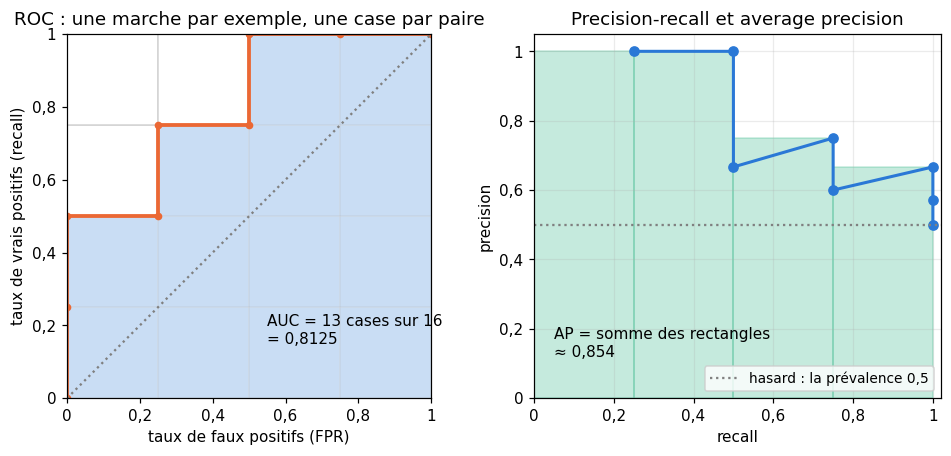
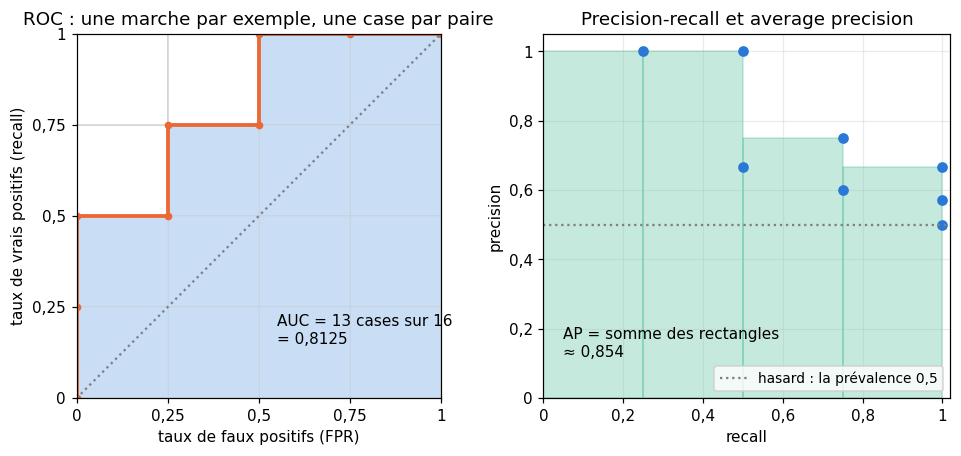
M03: corrections de la relecture à l'aveugle (parité des precisions, cas extrêmes de l'impossibilité, trapèzes PR, énoncés précisés, figures)
Claude-Session: https://claude.ai/code/session_01Nzd2BLBqKp1WGBHcAcsxs2

diff --git a/tools/chapters/figures_m03.py b/tools/chapters/figures_m03.py
@@ -92,8 +92,8 @@ def fig_simpson() -> None:
     ax.bar(x - 0.18, team_a, width=0.36, color=C[0], label="équipe A (100 faciles, 100 difficiles)")
     ax.bar(x + 0.18, team_b, width=0.36, color=C[1], label="équipe B (200 faciles, 20 difficiles)")
     for xi, a, b in zip(x, team_a, team_b):
-        ax.text(xi - 0.18, a + 0.02, french(a), ha="center", fontsize=9)
-        ax.text(xi + 0.18, b + 0.02, french(b), ha="center", fontsize=9)
+        for xpos, value in ((xi - 0.18, a), (xi + 0.18, b)):     # exact rates: 0,9 ; 0,85 ; 0,795
+            ax.text(xpos, value + 0.02, f"{value:.3f}".rstrip("0").replace(".", ","), ha="center", fontsize=9)
     ax.set_xticks(x, labels=labels)
     ax.xaxis.keep_labels = True
     ax.set(ylim=(0, 1.05), ylabel="taux de résolution", title="Paradoxe de Simpson : A gagne dans chaque groupe, B au total")
@@ -183,6 +183,8 @@ def fig_roc_pairs() -> None:
     ax1.plot(fpr, tpr, color=C[1], linewidth=2.5, marker="o", markersize=4)
     ax1.plot([0, 1], [0, 1], color="gray", linestyle=":")
     ax1.text(0.55, 0.15, "AUC = 13 cases sur 16\n= 0,8125", fontsize=10)
+    ax1.set_xticks(np.linspace(0, 1, 5))                          # one tick per column (negative) and per row
+    ax1.set_yticks(np.linspace(0, 1, 5))
     ax1.set(xlim=(0, 1), ylim=(0, 1), aspect="equal", xlabel="taux de faux positifs (FPR)",
             ylabel="taux de vrais positifs (recall)", title="ROC : une marche par exemple, une case par paire")
     recall, precision, ap_parts = [], [], []
@@ -197,7 +199,7 @@ def fig_roc_pairs() -> None:
         if r > previous:
             ax2.add_patch(plt.Rectangle((previous, 0), r - previous, p, facecolor=C[2], alpha=0.25, edgecolor=C[2]))
             previous = r
-    ax2.plot(recall, precision, color=C[0], marker="o", linewidth=2)
+    ax2.plot(recall, precision, color=C[0], marker="o", linestyle="none")   # points only: no interpolation
     ax2.axhline(0.5, color="gray", linestyle=":", label="hasard : la prévalence 0,5")
     ax2.text(0.05, 0.12, "AP = somme des rectangles\n≈ 0,854", fontsize=10)
     ax2.set(xlim=(0, 1.02), ylim=(0, 1.05), xlabel="recall", ylabel="precision",

diff --git a/chapitres/m03_probabilites_conditionnelles/01_fiche.md b/chapitres/m03_probabilites_conditionnelles/01_fiche.md
@@ -6,7 +6,7 @@
 |---|---|
 | **Sections** | §1 à §8 |
 | **Temps total estimé** | ≈ 12,8 h : lecture et calculs de la fiche ≈ 2 h 30, exercices ≈ 9 h 30, flashcards ≈ 45 min (parcours essentiel ≈ 7,2 h) |
-| **Prérequis** | R1 (moyenne harmonique, moyenne pondérée) ; R8 (probabilités, arbres pondérés, indépendance de deux événements) ; M02a (aire, méthode des trapèzes) ; M02c (covariance, corrélation) ; workbookIA 0A (arrays NumPy) |
+| **Prérequis** | R1 (moyenne harmonique, moyenne pondérée) ; R8 (probabilités, arbres pondérés, indépendance de deux événements) ; M02a (aire, méthode des trapèzes) ; M02b (loi jointe, indépendance de deux variables, loi de Bernoulli) ; M02c (covariance, corrélation) ; workbookIA 0A (arrays NumPy) |
 | **Fichiers du chapitre** | `02_exercices.md` (quiz, papier) · `03_notebook.ipynb` · `04_indices.md` · `05_solutions.md` et `05_solutions.ipynb` · `06_mes_reponses.md` · `flashcards.csv` |
 | **mymath** | `conditional.py` : `joint_from_counts`, `marginal`, `conditional`, `are_independent`, `auc_by_pairs` |
 | **MML** | §6.3, sa première moitié (voir le guide de lecture ci-dessous) |
@@ -26,7 +26,7 @@
 | §2 Probabilité conditionnelle, indépendance | Q1, Q2, Q3 | M03.1 ✏, M03.2 ✏, M03.16 📖, M03.17 ⚖, M03.18 🗣, M03.E1 💼 | M03.19 🔨, M03.20 🔨, M03.24 🔬, M03.26 🐛 |
 | §3 Probabilités totales | R1 🔁 | M03.3 ✏, M03.16 📖, M03.17 ⚖ | M03.26 🐛, M03.28 🏆 |
 | §4 La matrice de confusion | Q4 | M03.4 ✏ | |
-| §5 Moyennes de métriques, balanced accuracy, MCC | Q5, R2 🔁 | M03.5 ✏, M03.6 ✏, M03.13 ∂ | |
+| §5 Moyennes de métriques, balanced accuracy, MCC | Q5, R2 🔁 | M03.4 ✏ (h), M03.5 ✏, M03.6 ✏, M03.13 ∂ | |
 | §6 Prévalence et seuil de décision | | M03.6 ✏, M03.7 ✏, M03.14 🔗 | |
 | §7 ROC et AUC, precision-recall | Q6, R3 🔁 | M03.8 ✏, M03.9 ✏, M03.10 ✏, M03.12 ∂ | M03.21 🔨, M03.22 📦, M03.23 🔮, M03.25 🎨 |
 | §8 Calibration, score de Brier, taux par groupe | Q7 | M03.11 ✏, M03.15 🔗 | |
@@ -64,7 +64,7 @@ Vocabulaire anglais de ce chapitre : *joint probability*, *marginal probability*
 7. Le recall et la spécificité ne dépendent pas de la **prévalence** $\pi = P(Y = 1)$ ; la precision, si : $\frac{r\pi}{r\pi + (1 - s)(1 - \pi)}$. Pour des probabilités calibrées, le seuil qui minimise le coût est $\frac{c_{FP}}{c_{FP} + c_{FN}}$.
 8. La **courbe ROC** relie les points (FPR, recall) de tous les seuils ; son aire, l'**AUC**, est la probabilité qu'un positif ait un score plus élevé qu'un négatif (un ex æquo compte pour moitié). Elle ne change pas quand on transforme les scores par une fonction strictement croissante.
 9. La courbe **precision-recall** et l'**average precision** $\sum_j (R_j - R_{j-1})P_j$ montrent la qualité des alertes, qui dépend de la prévalence.
-10. Un modèle est **calibré** si $P(Y = 1 \mid \text{score} = p) = p$ ; le **score de Brier** $\frac{1}{n}\sum (p_i - y_i)^2$ mesure l'erreur de ses probabilités. Par groupe, des taux d'erreur égaux et des precisions égales sont incompatibles quand les prévalences diffèrent.
+10. Un modèle est **calibré** si $P(Y = 1 \mid \text{score} = p) = p$ ; le **score de Brier** $\frac{1}{n}\sum (p_i - y_i)^2$ mesure l'erreur de ses probabilités. Par groupe, des taux d'erreur égaux et des precisions égales sont incompatibles quand les prévalences diffèrent (sauf cas extrêmes, comme un modèle sans aucun faux positif).
 
 ---
 
@@ -93,7 +93,7 @@ En divisant tout le tableau par 500, on obtient la **loi jointe** de $(X, Y)$ (M
 | **ordinateur** | 0,14 | 0,16 | 0,10 | **0,4** |
 | **loi de $Y$** | **0,5** | **0,34** | **0,16** | **1** |
 
-Ses cases sont positives et ont une somme de 1. Chaque **marginale** est la somme des probabilités jointes de sa ligne ou de sa colonne : $P(X = \text{mobile}) = 0{,}36 + 0{,}18 + 0{,}06 = 0{,}6$. On dit qu'on **marginalise** : pour obtenir la loi de $X$, on « oublie » $Y$ en additionnant sur toutes ses valeurs,
+Ses cases sont positives ou nulles et ont une somme de 1. Chaque **marginale** est la somme des probabilités jointes de sa ligne ou de sa colonne : $P(X = \text{mobile}) = 0{,}36 + 0{,}18 + 0{,}06 = 0{,}6$. On dit qu'on **marginalise** : pour obtenir la loi de $X$, on « oublie » $Y$ en additionnant sur toutes ses valeurs,
 
 $$P(X = x) = \sum_y P(X = x, Y = y).$$
 
@@ -291,7 +291,7 @@ Trois façons de les résumer :
 
 L'accuracy est trompeuse quand une classe est rare : un modèle qui ne signale **rien** aurait ici une accuracy de $\frac{880}{1000} = 0{,}88$. Deux mesures résistent mieux.
 
-La **balanced accuracy** est la moyenne des recalls de chaque classe. En binaire, c'est la moyenne du recall et de la spécificité : $\frac{0{,}75 + 0{,}955}{2} \approx 0{,}852$. Le modèle qui ne signale rien obtient $\frac{0 + 1}{2} = 0{,}5$, comme le hasard.
+La **balanced accuracy** est la moyenne des recalls de chaque classe. En binaire, c'est la moyenne du recall et de la spécificité : $\frac{1}{2}\big(0{,}75 + \frac{21}{22}\big) \approx 0{,}852$. Le modèle qui ne signale rien obtient $\frac{0 + 1}{2} = 0{,}5$, comme le hasard.
 
 Le **MCC** (*Matthews correlation coefficient*) est la **corrélation** (M02c §8) entre la vérité $Y$ et la prédiction $\hat{Y}$, codées par 0 et 1 :
 
@@ -335,7 +335,7 @@ Conséquence pratique : une precision mesurée sur un jeu de test ne vaut que po
 
 ### Classes déséquilibrées : repondérer à l'entraînement
 
-Un modèle entraîné à minimiser une erreur moyenne sur des données où 88 % des exemples sont négatifs apprend surtout à reconnaître les négatifs. On **repondère** souvent les exemples : chaque exemple de la classe $k$ reçoit le poids $w_k = \frac{n}{K\,n_k}$ ($n$ exemples, $K$ classes, $n_k$ exemples dans la classe $k$ ; l'option `class_weight="balanced"` de scikit-learn). Pour le modèle de pannes : $w_1 = \frac{1000}{2 \times 120} \approx 4{,}17$ et $w_0 = \frac{1000}{2 \times 880} \approx 0{,}57$. Les deux classes pèsent alors autant au total ($120 \times 4{,}17 = 880 \times 0{,}57 = 500$) : tout se passe comme si la prévalence valait $\frac{1}{2}$. Rééchantillonner (dupliquer des positifs, retirer des négatifs) a le même effet. Le prix : les probabilités du modèle sont alors celles d'un monde à 50 % de positifs, et ne sont plus **calibrées** pour la vraie prévalence (§8) ; M04 donnera la formule pour les corriger.
+Un modèle entraîné à minimiser une erreur moyenne sur des données où 88 % des exemples sont négatifs apprend surtout à reconnaître les négatifs. On **repondère** souvent les exemples : chaque exemple de la classe $k$ reçoit le poids $w_k = \frac{n}{K\,n_k}$ ($n$ exemples, $K$ classes, $n_k$ exemples dans la classe $k$ ; l'option `class_weight="balanced"` de scikit-learn). Pour le modèle de pannes : $w_1 = \frac{1000}{2 \times 120} = \frac{25}{6} \approx 4{,}17$ et $w_0 = \frac{1000}{2 \times 880} = \frac{25}{44} \approx 0{,}57$. Les deux classes pèsent alors autant au total ($120 \times \frac{25}{6} = 880 \times \frac{25}{44} = 500$) : tout se passe comme si la prévalence valait $\frac{1}{2}$. Rééchantillonner (dupliquer des positifs, retirer des négatifs) a le même effet. Le prix : les probabilités du modèle sont alors celles d'un monde à 50 % de positifs, et ne sont plus **calibrées** pour la vraie prévalence (§8) ; M04 donnera la formule pour les corriger.
 
 ### Le seuil de décision
 
@@ -403,7 +403,7 @@ où $(R_j, P_j)$ est le couple (recall, precision) au $j$-ième seuil, du plus h
 
 Contrairement à la courbe ROC, la courbe precision-recall **dépend de la prévalence** (la precision en dépend, §6). Quand les positifs sont rares et que ce qui compte est la qualité des alertes, elle montre ce que la ROC cache : une AUC élevée peut aller avec une majorité de fausses alertes.
 
-⚠ **Erreur classique.** Calculer l'aire sous la courbe precision-recall par les trapèzes en reliant les points par des segments : la precision ne varie pas linéairement entre deux seuils, et les trapèzes surestiment l'aire. L'average precision utilise des rectangles.
+⚠ **Erreur classique.** Calculer l'aire sous la courbe precision-recall par les trapèzes en reliant les points par des segments : la precision ne varie pas linéairement entre deux seuils, et cette interpolation donne une aire fausse, souvent trop optimiste quand les points sont espacés. L'average precision utilise des rectangles, sans interpolation.
 
 🔗 **Dans workbookIA** — le chapitre 3 trace les courbes ROC et precision-recall et calcule l'AUC et l'average precision (`roc_curve`, `roc_auc_score`, `average_precision_score`) ; elles reviennent pour comparer des modèles aux chapitres 13 à 15.
 
@@ -417,7 +417,7 @@ Un modèle qui annonce des probabilités est **calibré** (*calibrated*) si elle
 
 $$P(Y = 1 \mid \text{score} = p) = p.$$
 
-On le vérifie par un **diagramme de fiabilité** (*reliability diagram*) : on regroupe les exemples par intervalles de score (par exemple 10 intervalles de largeur 0,1), et pour chaque intervalle on place la probabilité moyenne annoncée et la fréquence observée des positifs. Un modèle calibré suit la diagonale ; un modèle trop sûr de lui annonce 0,9 là où 75 % seulement des cas sont positifs.
+On le vérifie par un **diagramme de fiabilité** (*reliability diagram*) : on regroupe les exemples par intervalles de score (par exemple 10 intervalles de largeur 0,1), et pour chaque intervalle on place la probabilité moyenne annoncée et la fréquence observée des positifs. Un modèle calibré suit la diagonale ; un modèle trop sûr de lui annonce plus de 0,9 là où les trois quarts seulement des cas sont positifs, et moins de 0,1 là où un cas sur cinq l'est.
 
 ![Diagramme de fiabilité d'un modèle calibré et d'un modèle trop sûr de lui, qui classe pourtant les exemples dans le même ordre](figures/calibration.png)
 
@@ -434,13 +434,13 @@ Calibration et classement sont deux qualités différentes : la prévision const
 Un modèle est utilisé sur deux groupes de personnes $G_1$ et $G_2$ (deux langues, deux tranches d'âge…). Les mesures du §4 se calculent **par groupe** : ce sont des probabilités conditionnelles sachant aussi le groupe, comme $P(\hat{Y} = 1 \mid Y = 0, G = g)$, le taux de faux positifs du groupe $g$. Trois critères d'équité courants comparent les groupes :
 - la **parité des décisions** : le même taux de décisions positives $P(\hat{Y} = 1 \mid G = g)$ ;
 - l'**égalité des taux d'erreur** (*equalized odds*) : le même recall et le même taux de faux positifs dans chaque groupe ;
-- la **parité des precisions** (*predictive parity*) : la même precision $P(Y = 1 \mid \hat{Y} = 1, G = g)$ ; elle découle de la calibration dans chaque groupe.
+- la **parité des precisions** (*predictive parity*) : la même precision $P(Y = 1 \mid \hat{Y} = 1, G = g)$. Elle ressemble à la calibration dans chaque groupe, mais n'en découle pas : la precision au seuil $t$ est la moyenne des scores (calibrés) supérieurs à $t$, qui dépend de la répartition des scores dans le groupe.
 
 Ces critères ne peuvent pas tous être vrais à la fois quand les prévalences des groupes diffèrent. En écrivant $FP$ à partir de la precision ($\text{PPV} = \frac{TP}{TP + FP}$, donc $FP = TP\,\frac{1 - \text{PPV}}{\text{PPV}}$) et $TP = r\,n_+$ :
 
 $$\text{FPR} = \frac{FP}{n_-} = \frac{\pi}{1 - \pi}\cdot\frac{1 - \text{PPV}}{\text{PPV}}\cdot r.$$
 
-Si deux groupes ont la même precision (0,6) et le même recall (0,8), mais des prévalences de 30 % et 10 %, leurs taux de faux positifs sont forcément différents : environ 0,229 et 0,059. On ne peut égaliser les trois quantités que pour un modèle parfait, ou des prévalences égales. C'est le **théorème d'impossibilité** (A. Chouldechova, et J. Kleinberg et ses coauteurs, 2016-2017) : choisir un critère d'équité est un choix, pas un calcul.
+Si deux groupes ont la même precision (0,6) et le même recall (0,8), mais des prévalences de 30 % et 10 %, leurs taux de faux positifs sont forcément différents : environ 0,229 et 0,059. On ne peut égaliser les trois quantités que si les prévalences sont égales, ou dans des cas extrêmes (aucun faux positif dans les deux groupes, comme pour un modèle parfait). C'est le **théorème d'impossibilité** (A. Chouldechova, et J. Kleinberg et ses coauteurs, 2016-2017) : choisir un critère d'équité est un choix, pas un calcul.
 
 ![Avec la même precision et le même recall, le taux de faux positifs dépend de la prévalence du groupe](figures/equite.png)
 

diff --git a/chapitres/m03_probabilites_conditionnelles/02_exercices.md b/chapitres/m03_probabilites_conditionnelles/02_exercices.md
@@ -153,7 +153,7 @@ On tire un avis au hasard parmi les 400.
 | e | $P(\text{avec photo} \mid \text{4 ou 5 étoiles})$ | un nombre (3 décimales) |
 | f | $P(\text{avec photo} \mid \text{1 ou 2 étoiles})$ | un nombre (3 décimales) |
 | g | la loi de la note sachant « avec photo », dans l'ordre du tableau | une liste de 3 nombres (3 décimales) |
-| h | $P(\text{1 ou 2 étoiles ou avec photo})$ | un nombre (3 décimales) |
+| h | $P(\text{« 1 ou 2 étoiles »} \cup \text{« avec photo »})$ | un nombre (3 décimales) |
 
 Dans ta copie : complète le tableau avec ses totaux. Compare f) à a) : la présence d'une photo est-elle indépendante de la note ? Vérifie que la liste de g) a une somme de 1.
 
@@ -297,7 +297,7 @@ On déclare positif un utilisateur dont le score est **supérieur ou égal** au 
 
 | | Question | Réponse attendue |
 |---|---|---|
-| a | le nombre de points de la courbe ROC en escalier, $(0, 0)$ et $(1, 1)$ compris | un entier |
+| a | le nombre de points de la courbe ROC en escalier : un point par score pris comme seuil, plus le point de départ $(0, 0)$ (les points intermédiaires d'une même marche comptent) | un entier |
 | b | le point de la courbe pour le seuil 0,6 : `[FPR, recall]` | une liste de 2 nombres (2 décimales) |
 | c | le point pour le seuil 0,45 | une liste de 2 nombres (2 décimales) |
 | d | l'AUC, par la méthode des trapèzes | un nombre (2 décimales) |
@@ -319,14 +319,14 @@ Un modèle trie des candidatures ; ses scores (arrondis à 0,1) :
 | | Question | Réponse attendue |
 |---|---|---|
 | a | le nombre de paires (positif, négatif) | un entier |
-| b | le nombre de paires ex æquo | un entier |
+| b | le nombre de paires (positif, négatif) ex æquo | un entier |
 | c | le nombre de paires où le positif a **strictement** le score le plus élevé | un entier |
 | d | l'AUC | un nombre (2 décimales) |
 | e | l'AUC si l'on remplace chaque score $s$ par $-s$ | un nombre (2 décimales) |
 | f | l'AUC si l'on ajoute une cinquième candidature positive, de score 0,6 | un nombre (4 décimales) |
 | g | la proportion des paires de départ où le négatif a strictement le score le plus élevé | un nombre (4 décimales) |
 
-Dans ta copie : écris le tableau des 12 paires (une ligne par positif, une colonne par négatif) avec 1, $\frac{1}{2}$ ou 0 dans chaque case. Vérifie que d), c), b) et g) sont liés par une relation simple. Trace la courbe ROC : où se trouve le segment en diagonale, et quelle aire a-t-il sous lui ?
+Dans ta copie : écris le tableau des 12 paires (une ligne par positif, une colonne par négatif) avec 1, $\frac{1}{2}$ ou 0 dans chaque case. Vérifie que d), c), b) et g) sont liés par une relation simple. Trace la courbe ROC : où se trouve le segment oblique dû aux ex æquo, et quelle aire a-t-il sous lui ?
 
 ### Ex M03.10 — Courbe precision-recall et average precision à la main ✏ ★★ ⏱ 20 min
 **Objectif :** construire les points d'une courbe precision-recall, calculer l'average precision, et trouver le seuil du meilleur F1.
@@ -348,7 +348,7 @@ On recommande un film dont le score est supérieur ou égal au seuil.
 | d | l'average precision | un nombre (4 décimales) |
 | e | l'average precision, en fraction | une fraction irréductible |
 | f | le plus grand F1 sur tous les seuils | un nombre (2 décimales) |
-| g | le seuil qui donne ce F1 | un nombre (2 décimales) |
+| g | le seuil, parmi les 7 scores pris comme seuils, qui donne ce F1 | un nombre (2 décimales) |
 | h | l'average precision si le film non aimé de score 0,8 avait eu le score 0,4 | un nombre (4 décimales) |
 
 Dans ta copie : écris le tableau (seuil, TP, FP, precision, recall, F1) pour les 7 seuils, puis trace la courbe precision-recall. Pourquoi la precision monte-t-elle parfois quand on baisse le seuil, alors que le recall ne diminue jamais ?
@@ -392,7 +392,7 @@ Un classifieur donne des scores à $n_+$ exemples positifs, de scores $s_1, \ldo
 2. Montre que l'aire sous cet escalier est la somme, sur les négatifs $j$, de $\frac{1}{n_-}$ fois la hauteur de la courbe au moment où le seuil passe $t_j$.
 3. Que vaut cette hauteur ? Écris-la à l'aide de $\#\{i : s_i > t_j\}$.
 4. Déduis-en que l'aire vaut $\frac{1}{n_+ n_-}\sum_{j}\#\{i : s_i > t_j\}$, la proportion des paires (positif, négatif) bien classées.
-5. On autorise maintenant des ex æquo. Un groupe de scores égaux contient $a$ positifs et $b$ négatifs ($a, b \ge 1$) : montre que la courbe y fait un segment en diagonale, et que l'aire sous ce segment, dans le rectangle de $a \times b$ cases de taille $\frac{1}{n_+} \times \frac{1}{n_-}$ qu'il traverse, vaut la moitié du rectangle. Conclus que chaque paire ex æquo compte pour $\frac{1}{2}$.
+5. On autorise maintenant des ex æquo. Un groupe de scores égaux contient $a$ positifs et $b$ négatifs ($a, b \ge 1$) : montre que la courbe y suit la diagonale du rectangle qu'elle traverse, et que l'aire sous ce segment, dans le rectangle de $a \times b$ cases de taille $\frac{1}{n_+} \times \frac{1}{n_-}$ qu'il traverse, vaut la moitié du rectangle. Conclus que chaque paire ex æquo compte pour $\frac{1}{2}$.
 6. Déduis-en que l'AUC ne change pas si l'on remplace chaque score $s$ par $f(s)$, pour une fonction $f$ strictement croissante. Que devient-elle pour une fonction strictement décroissante ?
 7. Pour aller plus loin : la statistique $U$ de Mann et Whitney (un test de comparaison de deux groupes) compte les paires où un élément du premier groupe dépasse un élément du second, ex æquo comptés pour moitié. Relie $U$ à l'AUC.
 
@@ -406,8 +406,8 @@ Un classifieur range $n$ exemples dans $K \ge 2$ classes. Sa matrice de confusio
 3. Déduis-en que la micro-precision, le micro-recall et le micro-F1 sont égaux à l'accuracy.
 4. Interprète l'étape 2 en une phrase : que représente une case hors de la diagonale pour la classe prédite, et pour la vraie classe ?
 5. Vérifie le résultat sur la matrice des feuilles de vigne de la fiche (§5).
-6. En classification binaire, scikit-learn ne calcule par défaut la precision et le recall que pour la classe positive (`average="binary"`). Pourquoi ne sont-ils pas égaux en général ? Et dans un problème **multi-label** (un exemple peut avoir plusieurs labels, ou aucun), quelle étape de la démonstration tombe ?
-7. Montre que le recall macro (la moyenne simple des recalls des classes) est la balanced accuracy, et donne un exemple de matrice $2 \times 2$ où il diffère de l'accuracy.
+6. En classification binaire, scikit-learn ne calcule par défaut la precision et le recall que pour la classe positive (`average="binary"`). Pourquoi ne sont-ils en général ni égaux entre eux, ni égaux à l'accuracy ? Et dans un problème **multi-label** (un exemple peut avoir plusieurs labels, ou aucun), quelle étape de la démonstration tombe ?
+7. En binaire, montre que le recall macro (la moyenne simple des recalls des deux classes) vaut $\frac{\text{recall} + \text{spécificité}}{2}$, et donne un exemple de matrice $2 \times 2$ où il diffère de l'accuracy. Quand sont-ils égaux ?
 
 <a id="reflexion"></a>
 
@@ -431,7 +431,7 @@ On déclare positif un colis dont le score est supérieur ou égal au seuil, et 
 | d | au seuil 0,7 : le recall | un nombre (2 décimales) |
 | e | au seuil 0,3 : `[precision, recall]` | une liste de 2 nombres (3 décimales) |
 | f | le seuil, parmi 0,3, 0,5 et 0,7, qui donne le meilleur F1 | un nombre (1 décimale) |
-| g | un colis mal adressé envoyé coûte 3 et une vérification inutile coûte 1 : le coût total au seuil 0,5 | un entier |
+| g | un colis mal adressé envoyé (un faux négatif) coûte 3, et la vérification d'un colis bien adressé (un faux positif) coûte 1 ; un colis mal adressé détecté ne coûte rien : le coût total au seuil 0,5 | un entier |
 | h | avec ces coûts, le seuil le moins coûteux parmi les trois | un nombre (1 décimale) |
 
 Dans ta copie : écris les trois matrices de confusion. Comment évoluent la precision et le recall quand le seuil baisse ? Avec un coût de 1 pour chaque erreur, quel seuil choisirais-tu ? Pourquoi ne faudrait-il pas choisir le seuil sur ces mêmes 10 colis de test ?

diff --git a/chapitres/m03_probabilites_conditionnelles/05_solutions.md b/chapitres/m03_probabilites_conditionnelles/05_solutions.md
@@ -317,10 +317,10 @@ Pour la copie : le paquet haut est sur la diagonale ; le paquet bas annonce 25 %
 3. $\sum_k (TP_k + FP_k) = \sum_k C_{kk} + n - \sum_k C_{kk} = n$, et de même $\sum_k (TP_k + FN_k) = n$. Les deux fractions valent $\frac{\sum_k C_{kk}}{n}$, l'accuracy. Le micro-F1, moyenne harmonique de deux nombres égaux, vaut ce nombre.
 4. Une erreur (vraie classe $k$, prédite $l \ne k$) est à la fois un faux positif pour la classe prédite $l$ et un faux négatif pour la vraie classe $k$ : elle est comptée une fois de chaque côté.
 5. Diagonale $50 + 22 + 7 = 79$, $n = 100$ : 0,79 ; $\sum FP_k = (5 + 2) + (4 + 1) + (6 + 3) = 21 = 100 - 79$.
-6. En binaire avec `average="binary"`, on ne garde que la classe positive : precision $\frac{TP}{TP + FP}$ et recall $\frac{TP}{TP + FN}$ diffèrent dès que $FP \ne FN$ (l'égalité de 3 venait de ce qu'on additionnait **toutes** les classes, la négative comprise). En multi-label, un exemple peut avoir plusieurs vrais labels ou plusieurs prédictions : une erreur n'est plus forcément à la fois un FP et un FN, et $\sum_k (TP_k + FP_k)$ (le nombre de prédictions) n'est plus égal à $\sum_k (TP_k + FN_k)$ (le nombre de vrais labels) : l'étape 2 tombe.
-7. Par définition, la balanced accuracy est la moyenne des recalls par classe, c'est-à-dire le recall macro. Exemple : $\begin{pmatrix} 90 & 0 \\ 10 & 0 \end{pmatrix}$ (vérité en lignes, 90 négatifs, 10 positifs, tout prédit négatif) : accuracy 0,9, recall macro $\frac{1 + 0}{2} = 0{,}5$.
+6. En binaire avec `average="binary"`, on ne garde que la classe positive : precision $\frac{TP}{TP + FP}$ et recall $\frac{TP}{TP + FN}$ diffèrent dès que $FP \ne FN$, et aucun des deux n'est l'accuracy $\frac{TP + TN}{n}$, qui compte aussi les vrais négatifs. L'égalité de 3 venait de ce qu'on additionnait les comptages de **toutes** les classes, la négative comprise. En multi-label, un exemple peut avoir plusieurs vrais labels ou plusieurs prédictions : une erreur n'est plus forcément à la fois un FP et un FN, et $\sum_k (TP_k + FP_k)$ (le nombre de prédictions) n'est plus égal à $\sum_k (TP_k + FN_k)$ (le nombre de vrais labels) : l'étape 2 tombe.
+7. En binaire, le recall de la classe positive est le recall, et celui de la classe négative est $\frac{TN}{TN + FP}$, la spécificité : leur moyenne simple est $\frac{\text{recall} + \text{spécificité}}{2}$, la balanced accuracy. Exemple : $\begin{pmatrix} 90 & 0 \\ 10 & 0 \end{pmatrix}$ (vérité en lignes, 90 négatifs puis 10 positifs, tout prédit négatif) : accuracy 0,9, recall macro $\frac{1 + 0}{2} = 0{,}5$. Comme l'accuracy vaut $\pi \cdot \text{recall} + (1 - \pi) \cdot \text{spécificité}$ (probabilités totales), les deux sont égaux quand $\pi = \frac{1}{2}$ ou quand recall et spécificité sont égaux.
 
-**Grille.** (1) la trace et l'accuracy ; (2) l'argument « chaque case hors diagonale est comptée une fois » pour FP et pour FN ; (3) la conclusion, avec le F1 ; (4) l'interprétation (une erreur, un FP et un FN) ; (5) la vérification numérique ; (6) pourquoi l'égalité tombe en binaire « classe positive seule » et en multi-label ; (7) recall macro = balanced accuracy, avec un exemple chiffré.
+**Grille.** (1) la trace et l'accuracy ; (2) l'argument « chaque case hors diagonale est comptée une fois » pour FP et pour FN ; (3) la conclusion, avec le F1 ; (4) l'interprétation (une erreur, un FP et un FN) ; (5) la vérification numérique ; (6) pourquoi l'égalité tombe en binaire « classe positive seule » (ni entre elles, ni avec l'accuracy) et en multi-label ; (7) le recall macro binaire égal à la balanced accuracy, un exemple chiffré, et le cas d'égalité avec l'accuracy.
 
 <a id="reflexion"></a>
 
@@ -334,11 +334,11 @@ Pour la copie : le paquet haut est sur la diagonale ; le paquet bas annonce 25 %
 - a), b) Au seuil 0,5 : 0,95, 0,81, 0,66, 0,52 (positifs) et 0,74 (négatif).
 - c) $\frac{2}{3}$. d) $\frac{2}{5}$. e) $\frac{5}{8}$ et 1.
 - f) F1 : 0,5 (seuil 0,7), 0,8 (seuil 0,5), $\frac{2 \times 0{,}625}{1{,}625} \approx 0{,}769$ (seuil 0,3).
-- g) $3 \times 1 + 1 \times 1 = 4$. h) Coûts : $3 \times 3 + 1 = 10$, $4$, $3 \times 0 + 3 = 3$ : le seuil 0,3.
+- g) Un faux négatif (coût 3) et un faux positif (coût 1) : $3 \times 1 + 1 \times 1 = 4$ ; les colis mal adressés détectés ne coûtent rien. h) Coûts : $3 \times 3 + 1 = 10$, $4$, $3 \times 0 + 3 = 3$ : le seuil 0,3.
 
 Pour la copie : quand le seuil baisse, le recall monte (0,4 ; 0,8 ; 1) et la precision baisse ici (0,667 ; 0,8 ; 0,625, pas tout à fait monotone). Avec un coût de 1 par erreur, on compte les erreurs : 4, 2, 3 : le seuil 0,5. Choisir le seuil sur les données de test, c'est l'ajuster à elles : l'évaluation devient trop optimiste ; on le choisit sur un jeu de validation.
 
-**Erreurs fréquentes.** Oublier qu'un score égal au seuil est positif ; diviser la precision par le nombre de positifs ; additionner les erreurs sans leurs coûts.
+**Erreurs fréquentes.** Oublier qu'un score égal au seuil est positif ; diviser la precision par le nombre de positifs ; additionner les erreurs sans leurs coûts ; faire payer la vérification des colis mal adressés détectés (l'énoncé dit qu'ils ne coûtent rien).
 
 **Variante.** Avec un coût de 5 pour un colis mal adressé envoyé ? *Réponse* : 16, 6 et 3 : le seuil 0,3 encore, plus nettement.
 

diff --git a/annexes/formulaire.md b/annexes/formulaire.md
@@ -234,7 +234,7 @@ Toutes les formules du workbook, rangées dans l'ordre des chapitres. Chaque cha
 | AUC | aire sous la courbe ROC (points (FPR, recall)) $= \frac{\#\{s_+ > s_-\} + \frac{1}{2}\#\{s_+ = s_-\}}{n_+ n_-} = P(S_+ > S_-) + \frac{1}{2}P(S_+ = S_-)$ ; inchangée par une fonction strictement croissante ; $1 - $ AUC pour $-s$ |
 | average precision | $\text{AP} = \sum_j (R_j - R_{j-1})\,P_j$, aux seuils décroissants ($R_0 = 0$) ; hasard : la prévalence |
 | calibration, Brier | calibré : $P(Y = 1 \mid \text{score} = p) = p$ ; $\text{Brier} = \frac{1}{n}\sum (p_i - y_i)^2$ ; prévision constante $\pi$ : $\pi(1 - \pi)$ |
-| taux par groupe | $\text{FPR} = \frac{\pi}{1 - \pi}\cdot\frac{1 - \text{PPV}}{\text{PPV}}\cdot\text{recall}$ : prévalences différentes, impossible d'égaliser PPV, recall et FPR à la fois |
+| taux par groupe | $\text{FPR} = \frac{\pi}{1 - \pi}\cdot\frac{1 - \text{PPV}}{\text{PPV}}\cdot\text{recall}$ : prévalences différentes, impossible d'égaliser PPV, recall et FPR à la fois (sauf cas extrêmes, sans faux positif) |
 
 *(M04 à M06 : ajoutés avec leurs chapitres)*
 
